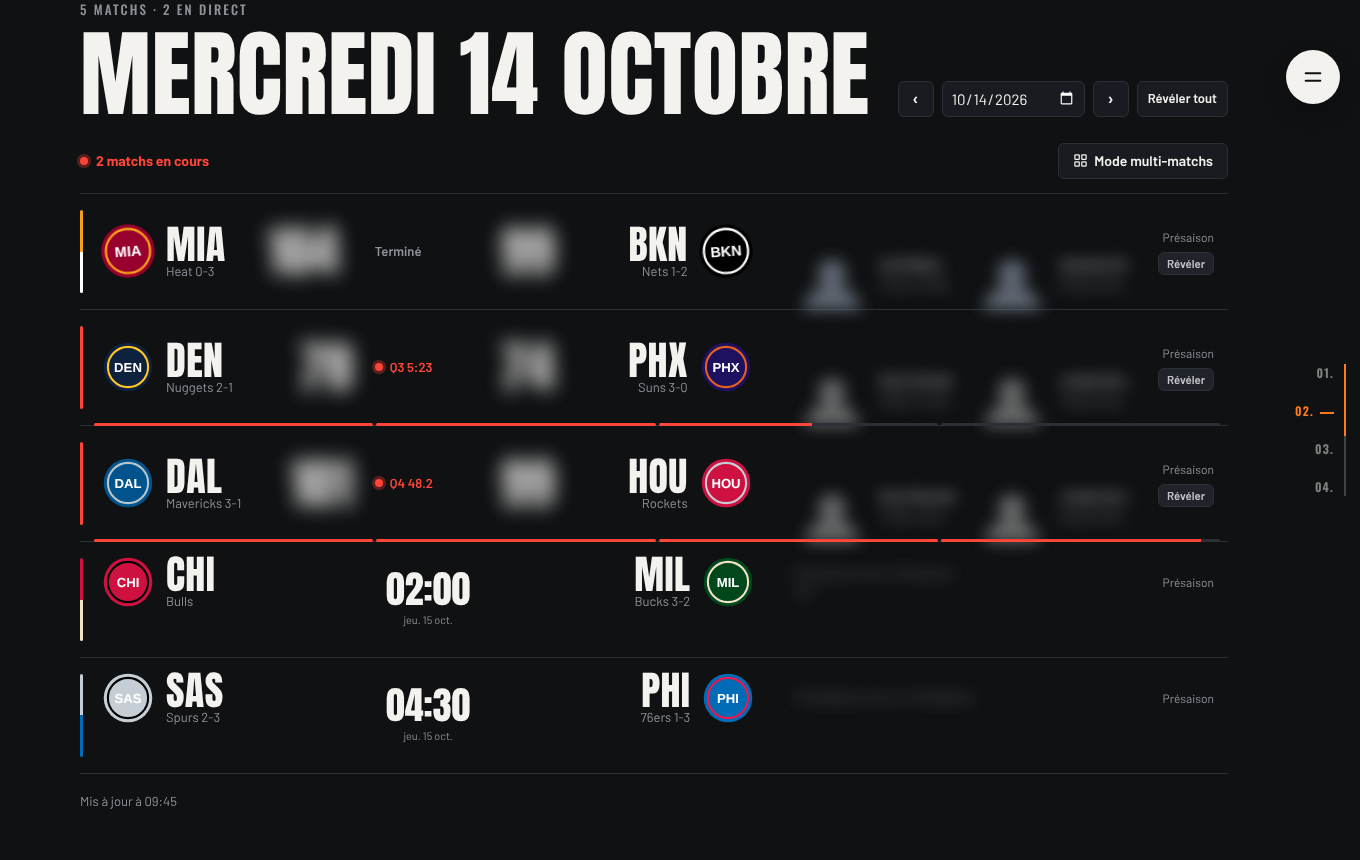
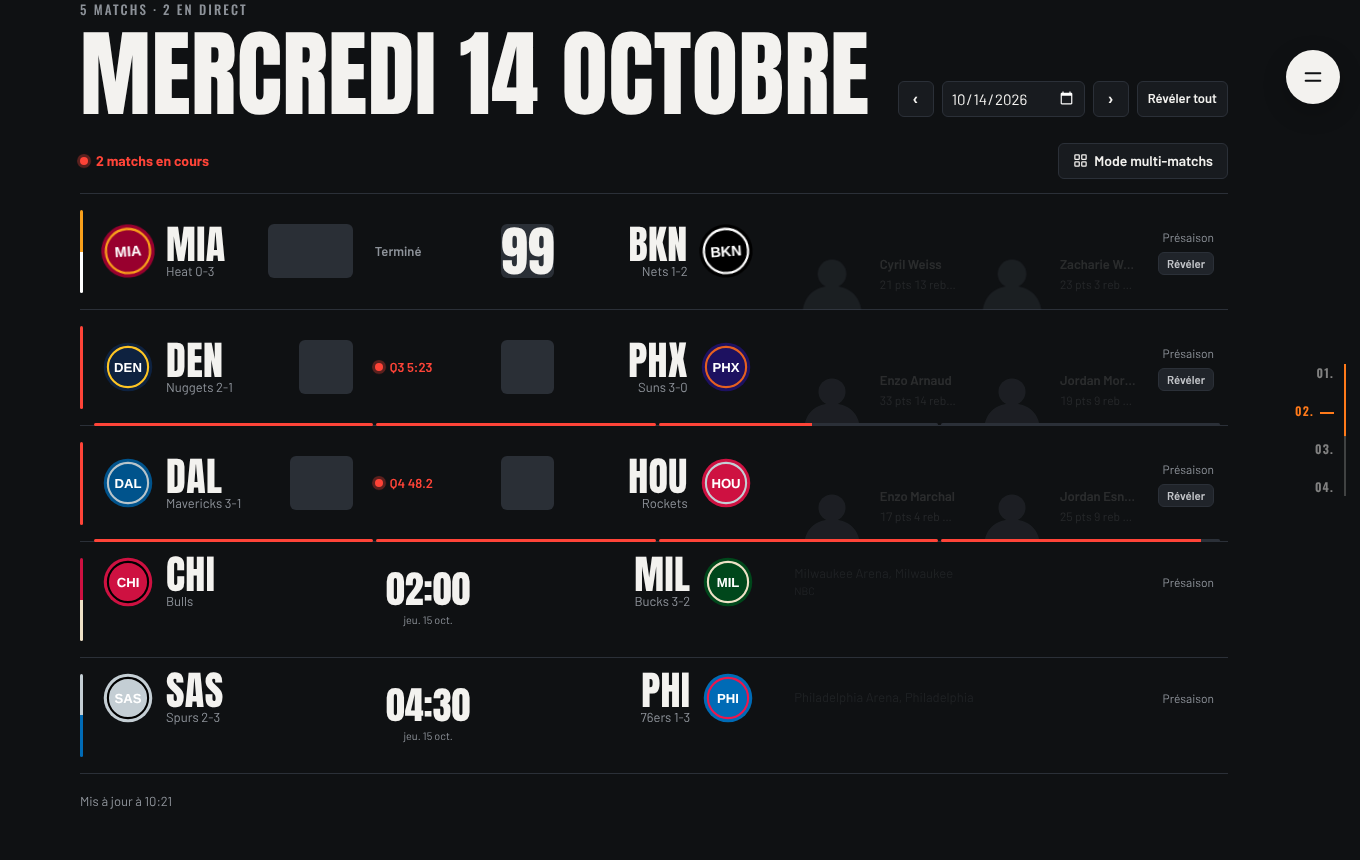
Allègement du rendu, pour Firefox en particulier (v1.9.4)
- Sommaire de l'accueil : la section en cours est suivie par un observateur
  du navigateur ; plus de mesure de la page à chaque image de défilement
  (lectures et écritures alternées qui forçaient des recalculs complets)
- Titres ajustés seulement quand la largeur change
- Plus de texte en dégradé (chiffres en fond en aplat), plus de masques
  (voiles à la place), plus de calques forcés, plus de sélecteur :has()
- Photos des listes sans filtre noir et blanc (gardé sur les grands
  portraits), ce qui évite des dizaines d'images filtrées au défilement
- Anti-spoiler : scores masqués par des pavés pleins au lieu d'un flou,
  très coûteux sous Firefox ; survol et clic inchangés

diff --git a/web/css/style.css b/web/css/style.css
@@ -8095,7 +8095,7 @@ html[data-spoiler="1"] .game-tile:not(.is-revealed) .score.bump::after {
   display: none;
 }
 
-.game-tile:has(.bump) {
+.game-tile.has-bump {
   animation: row-flash 1.8s ease-out;
 }
 
@@ -8172,7 +8172,7 @@ html[data-motion="reduce"] .fx-swap,
 html[data-motion="reduce"] main.page-in > *,
 html[data-motion="reduce"] .bump,
 html[data-motion="reduce"] .score.bump[data-delta]::after,
-html[data-motion="reduce"] .game-tile:has(.bump),
+html[data-motion="reduce"] .game-tile.has-bump,
 html[data-motion="reduce"] .stage-hint i::after,
 html[data-motion="reduce"] .reveal .page-title .w > span {
   animation: none !important;
@@ -9187,4 +9187,152 @@ html[data-motion="reduce"] .live-dot::after {
     top: 70%;
     height: 8px;
   }
+}
+
+/* =====================================================================
+   2.2 Légèreté (Firefox en particulier) : pas de texte en dégradé, pas
+   de masques, pas de calques forcés ; des aplats et des voiles simples.
+   ===================================================================== */
+
+/* Chiffres fantômes : une couleur légère en aplat au lieu d'un dégradé découpé dans le texte. */
+.poster-ghost,
+.nn-big,
+.night-num:hover .nn-big {
+  background: none;
+  -webkit-background-clip: border-box;
+  background-clip: border-box;
+  color: color-mix(in srgb, var(--text) 8%, transparent);
+}
+
+.nn-big {
+  color: color-mix(in srgb, var(--text) 12%, transparent);
+}
+
+.night-num:hover .nn-big {
+  color: color-mix(in srgb, var(--accent) 35%, transparent);
+}
+
+/* Plus aucun masque : le bas des portraits et les bords du bandeau sont fondus par des voiles. */
+.recap-photo .headshot,
+.standout .headshot,
+.stage-cutout,
+.ticker,
+.poster-visual.is-cutout img,
+.stage .stage-band,
+.poster .stage-band,
+.game-page .scoreboard .stage-band {
+  -webkit-mask-image: none;
+  mask-image: none;
+}
+
+.ticker::before,
+.ticker::after {
+  content: "";
+  position: absolute;
+  top: 0;
+  bottom: 0;
+  z-index: 1;
+  width: 6%;
+  pointer-events: none;
+}
+
+.ticker::before {
+  left: 0;
+  background: linear-gradient(90deg, var(--bg), transparent);
+}
+
+.ticker::after {
+  right: 0;
+  background: linear-gradient(-90deg, var(--bg), transparent);
+}
+
+.poster-visual.is-cutout::after,
+.standout .headshot-wrap::after {
+  content: "";
+  position: absolute;
+  left: 0;
+  right: 0;
+  bottom: 0;
+  height: 16%;
+  background: linear-gradient(to top, var(--bg), transparent);
+}
+
+/* Calques forcés retirés : le navigateur les crée lui-même le temps d'une animation. */
+.stage-cutout,
+.stage-band,
+.sn-in,
+.poster-visual img,
+.poster-ghost,
+.ss-item {
+  will-change: auto;
+}
+
+/* Photos des listes en couleur, sans filtre (le noir et blanc reste sur les grands portraits
+   de la scène et des affiches) : des dizaines de photos filtrées ralentissaient le défilement. */
+.home-games .tl-player .headshot,
+.home-games .game-tile:hover .tl-player .headshot,
+.nn-cut img,
+.ht-list.players .headshot,
+.ht-list.players a:hover .headshot,
+.player-card .pic-wrap img,
+.player-card:hover .pic-wrap img,
+.board-top .headshot,
+.board-top:hover .headshot,
+.roster-card .headshot,
+.roster-card:hover .headshot,
+.standout .headshot,
+.standout:hover .headshot {
+  filter: none;
+}
+
+.home-games .tl-player .headshot {
+  transition: transform 0.8s var(--ease-out) 0.2s, opacity 0.6s ease 0.2s;
+}
+
+/* Anti-spoiler : les scores masqués deviennent des pavés pleins au lieu d'être floutés (le flou
+   de dizaines d'éléments était très lent, sous Firefox surtout). Survoler montre qu'on peut
+   cliquer ; un clic révèle, comme avant. */
+html[data-spoiler="1"] .game-tile:not(.is-revealed) .tile-team .score,
+html[data-spoiler="1"] .game-tile:not(.is-revealed) .tile-team .score:hover,
+html[data-spoiler="1"] .game-page:not(.is-revealed) .sb-scores span:not(.dash),
+html[data-spoiler="1"] .game-page:not(.is-revealed) .sb-scores span:not(.dash):hover,
+html[data-spoiler="1"] .game-page:not(.is-revealed) .periods-table td.num,
+html[data-spoiler="1"] .game-page:not(.is-revealed) .periods-table td.total,
+html[data-spoiler="1"] .game-page:not(.is-revealed) .periods-table td.num:hover,
+html[data-spoiler="1"] .game-page:not(.is-revealed) .periods-table td.total:hover,
+html[data-spoiler="1"] .stat-table td .wl,
+html[data-spoiler="1"] .cal-res:not(.cal-time),
+html[data-spoiler="1"] .cal-rec {
+  filter: none;
+  color: transparent;
+  text-shadow: none;
+  background: var(--surface-3);
+  border-radius: 6px;
+  opacity: 1;
+  transition: background 0.2s ease;
+}
+
+html[data-spoiler="1"] .game-tile:not(.is-revealed) .tile-team .score:hover,
+html[data-spoiler="1"] .game-page:not(.is-revealed) .sb-scores span:not(.dash):hover {
+  background: color-mix(in srgb, var(--accent) 35%, var(--surface-3));
+}
+
+html[data-spoiler="1"] .game-tile:not(.is-revealed) .tile-leaders,
+html[data-spoiler="1"] .game-tile:not(.is-revealed) .tile-leaders:hover {
+  filter: none;
+  opacity: 0.12;
+}
+
+html[data-spoiler="1"] .game-tile:not(.is-revealed) .tile-leaders:hover {
+  opacity: 0.25;
+}
+
+/* Survol ou focus : le résultat masqué se montre, comme avant. */
+html[data-spoiler="1"] .stat-table tr:hover td .wl,
+html[data-spoiler="1"] .stat-table tr:focus-within td .wl,
+html[data-spoiler="1"] .cal-game:hover .cal-res,
+html[data-spoiler="1"] .cal-game:focus-visible .cal-res,
+html[data-spoiler="1"] .cal-record:hover .cal-rec {
+  color: inherit;
+  background: none;
 }

diff --git a/web/js/scroll.js b/web/js/scroll.js
@@ -41,37 +41,68 @@ export function sectionIndex(ctx, items, scroller) {
   const nav = h("nav", { class: "section-index", "aria-label": "Sommaire de la page" }, h("span", { class: "si-track" }, fill), buttons);
   document.body.append(nav);
 
-  let raf = 0;
-  const sync = () => {
-    raf = 0;
-    const mid = window.innerHeight * 0.4;
+  // Section en cours : celle qui croise une ligne fictive à 40 % de la hauteur de l'écran.
+  // L'observateur est géré par le navigateur : aucun calcul pendant le défilement.
+  const visible = new Set();
+  let lastActive = -1;
+  const setActive = () => {
     let active = 0;
     items.forEach((it, i) => {
-      const hidden = it.el.hidden || !it.el.isConnected || it.el.offsetHeight === 0;
-      buttons[i].hidden = hidden;
-      if (!hidden && it.el.getBoundingClientRect().top <= mid) active = i;
+      if (visible.has(it.el)) active = i;
     });
+    if (!visible.size) active = lastActive < 0 ? 0 : lastActive;
+    if (active === lastActive) return;
+    lastActive = active;
     buttons.forEach((b, i) => b.classList.toggle("is-active", i === active));
-    nav.classList.toggle("on-stage", Boolean(items[active]?.dark));
-    const max = Math.max(1, document.documentElement.scrollHeight - window.innerHeight);
-    fill.style.transform = `scaleY(${Math.min(1, window.scrollY / max)})`;
+  };
+  const io = new IntersectionObserver(
+    (entries) => {
+      for (const e of entries) {
+        if (e.isIntersecting) visible.add(e.target);
+        else visible.delete(e.target);
+      }
+      setActive();
+    },
+    { rootMargin: "-40% 0px -59% 0px" }
+  );
+  for (const it of items) io.observe(it.el);
+
+  // Trait de progression : seule la position de défilement est lue à chaque image ; la hauteur
+  // de la page n'est remesurée que lorsqu'elle change.
+  let max = 1;
+  let raf = 0;
+  let lastFill = "";
+  const draw = () => {
+    raf = 0;
+    const v = `scaleY(${Math.min(1, window.scrollY / max).toFixed(3)})`;
+    if (v !== lastFill) {
+      lastFill = v;
+      fill.style.transform = v;
+    }
   };
   const queue = () => {
-    if (!raf) raf = requestAnimationFrame(sync);
+    if (!raf) raf = requestAnimationFrame(draw);
   };
-  window.addEventListener("scroll", queue, { passive: true });
-  window.addEventListener("resize", queue);
-  const ro = new ResizeObserver(queue);
+  // Sections masquées (pas de résumé de la nuit, par exemple) : leur numéro disparaît.
+  const refresh = () => {
+    max = Math.max(1, document.documentElement.scrollHeight - window.innerHeight);
+    items.forEach((it, i) => (buttons[i].hidden = it.el.hidden || !it.el.isConnected));
+    queue();
+  };
+  const ro = new ResizeObserver(refresh);
   ro.observe(document.body);
-  queue();
+  window.addEventListener("scroll", queue, { passive: true });
+  window.addEventListener("resize", refresh);
+  refresh();
   ctx.onCleanup(() => {
     cancelAnimationFrame(raf);
-    window.removeEventListener("scroll", queue);
-    window.removeEventListener("resize", queue);
+    io.disconnect();
     ro.disconnect();
+    window.removeEventListener("scroll", queue);
+    window.removeEventListener("resize", refresh);
     nav.remove();
   });
-  return { refresh: queue };
+  return { refresh };
 }
 
 // Un nombre qui défile de 0 à sa valeur (entiers seulement), après un éventuel délai.

diff --git a/web/js/components.js b/web/js/components.js
@@ -209,6 +209,7 @@ export function gameTile(game, { favs = favorites(), previous } = {}) {
   });
 
   const winner = game.status === 3 && game.away && game.home ? (game.away.score > game.home.score ? "away" : "home") : null;
+  let bumped = false;
   function toggleReveal() {
     setTileRevealed(tile, !tile.classList.contains("is-revealed"));
   }
@@ -234,6 +235,7 @@ export function gameTile(game, { favs = favorites(), previous } = {}) {
         // Le score qui change roule, et l'écart marqué s'envole au-dessus (+2, +3).
         score.classList.add("bump");
         score.dataset.delta = `+${s.score - prevScore}`;
+        bumped = true;
       }
       if (winner === sideKey) score.append(h("i", { class: "winmark", "aria-label": "vainqueur" }));
     }
@@ -320,6 +322,7 @@ export function gameTile(game, { favs = favorites(), previous } = {}) {
     for (const p of f.gameProgress(game)) bar.append(h("span", { class: p.ot ? "ot" : "" }, h("i", { style: { width: `${p.filled * 100}%` } })));
     tile.append(bar);
   }
+  if (bumped) tile.classList.add("has-bump");
   return tile;
 }
 

diff --git a/web/js/poster.js b/web/js/poster.js
@@ -75,7 +75,13 @@ export function poster(ctx, opts) {
   paint(opts.teamId, opts.color);
   for (const part of [kicker, meta, stats, actions, ghost]) part.hidden = !part.textContent && !part.children.length;
 
-  const ro = new ResizeObserver(() => fitTitle(el));
+  let lastWidth = 0;
+  const ro = new ResizeObserver(([entry]) => {
+    const w = Math.round(entry.contentRect.width);
+    if (w === lastWidth) return;
+    lastWidth = w;
+    fitTitle(el);
+  });
   ro.observe(el);
   document.fonts?.load('100px "Anton"').then(() => fitTitle(el)).catch(() => {});
   ctx.onCleanup(() => ro.disconnect());

diff --git a/web/js/views/stage.js b/web/js/views/stage.js
@@ -84,7 +84,13 @@ export function createStage(ctx) {
   if (manual) el.classList.add("no-auto");
   const extras = new Map();
 
-  const ro = new ResizeObserver(() => fitName(el));
+  let lastSize = "";
+  const ro = new ResizeObserver(([entry]) => {
+    const size = `${Math.round(entry.contentRect.width)}x${Math.round(entry.contentRect.height)}`;
+    if (size === lastSize) return;
+    lastSize = size;
+    fitName(el);
+  });
   ro.observe(el);
   document.fonts?.load('100px "Anton"').then(() => fitName(el)).catch(() => {});
 

diff --git a/web/sw.js b/web/sw.js
@@ -4,7 +4,7 @@
 // toujours essayé en premier, et le cache ne sert que de secours quand le serveur est arrêté.
 // Ainsi, une mise à jour du code est visible dès le lancement suivant, sans mélange de versions.
 
-const VERSION = "1.9.3";
+const VERSION = "1.9.4";
 const STATIC_CACHE = `parquet-static-${VERSION}`;
 const API_CACHE = `parquet-api-${VERSION}`;
 const API_CACHE_MAX = 150;

diff --git a/parquet/__init__.py b/parquet/__init__.py
@@ -1,3 +1,3 @@
 """Parquet : tableau de bord et encyclopédie NBA personnels."""
 
-__version__ = "1.9.3"
+__version__ = "1.9.4"
